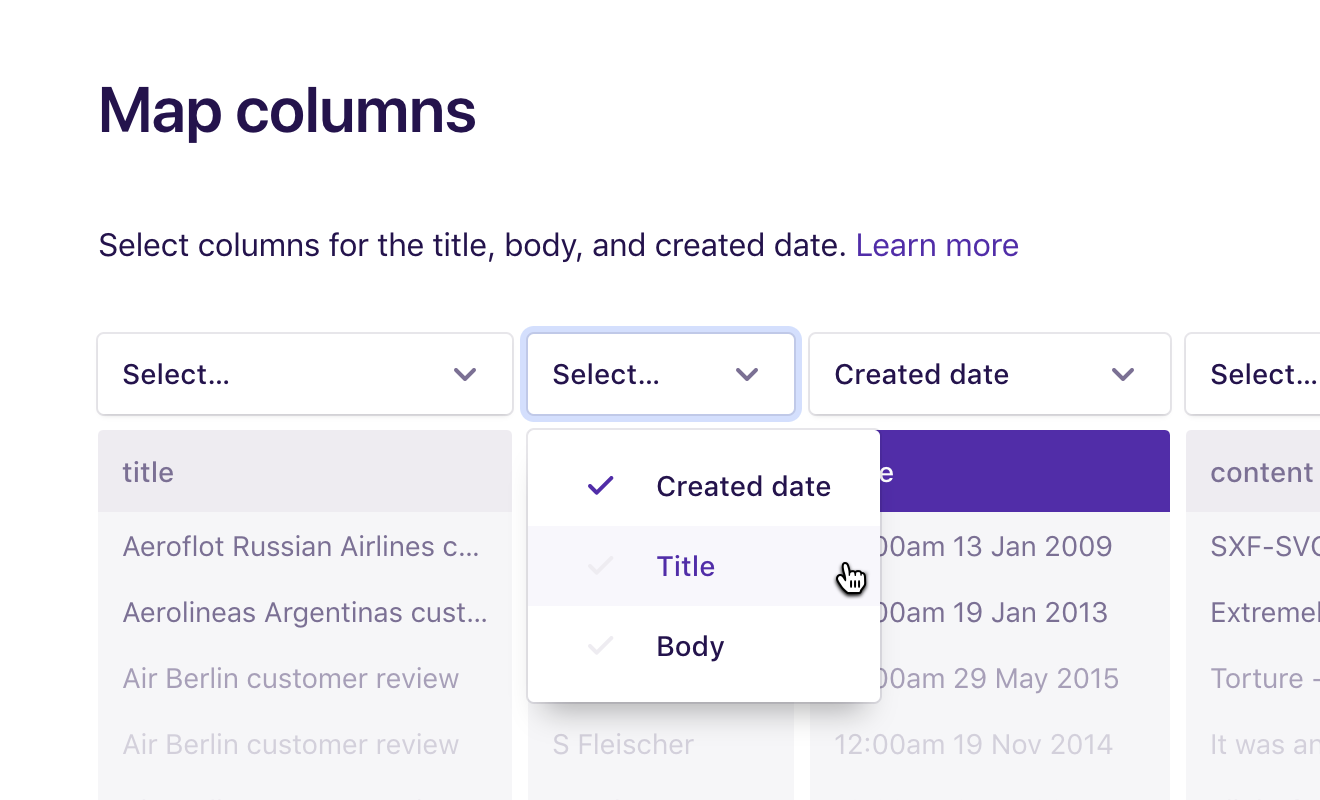
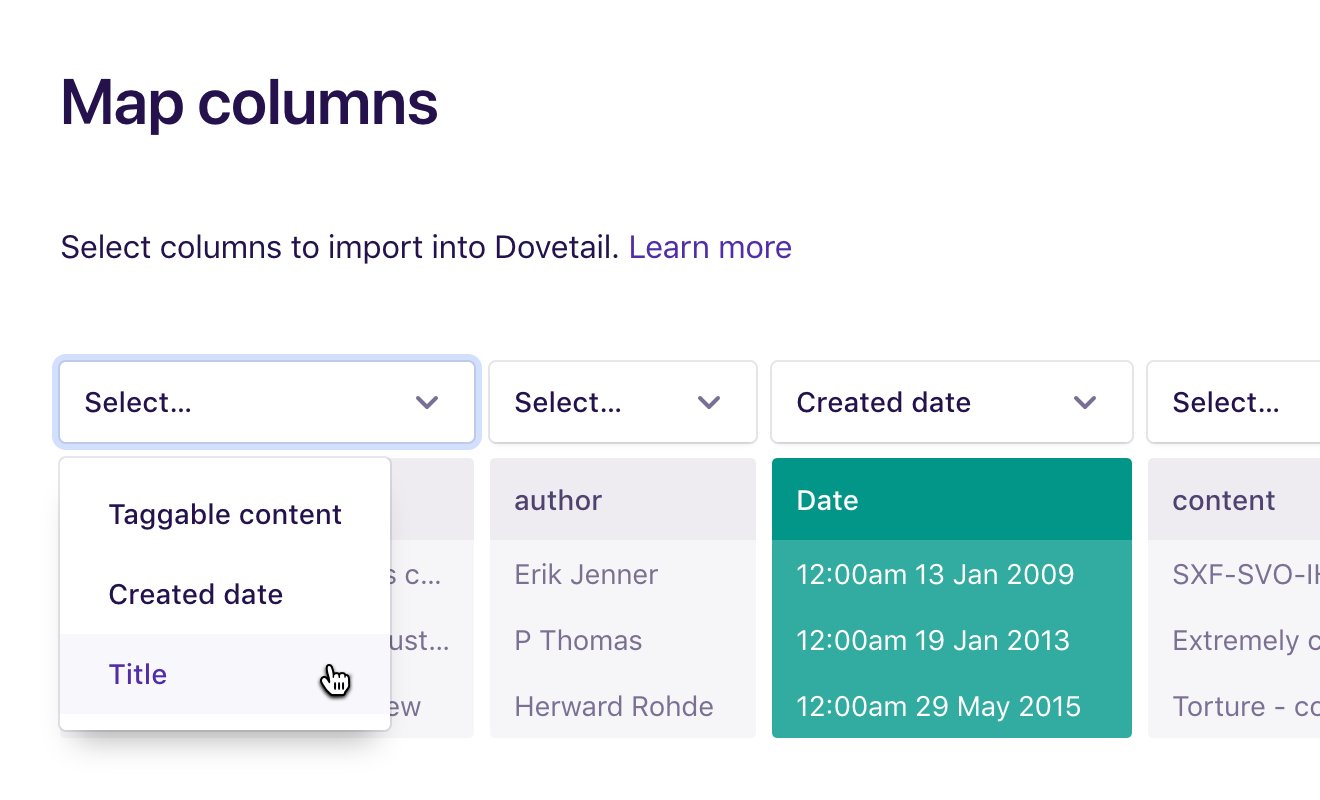
docs: Update CSV import docs

diff --git a/src/pages/help/import-your-data/spreadsheet/index.md b/src/pages/help/import-your-data/spreadsheet/index.md
@@ -1,49 +1,39 @@
 ---
 path: "/help/spreadsheet"
-date: "2018-04-24"
+date: "2018-05-04"
 title: "Upload data via a spreadsheet"
 weight: 1
 ---
 
 Create notes, tags, or insights in bulk from a CSV file. This is handy for importing data like NPS feedback, survey responses, and customer feedback to analyze in Dovetail, or if you have an existing set of tags you’d like to import.
 
-**Note:** CSV import is primarily designed for creating lots of small—to—medium notes. While you can import large content like interview transcripts, you’ll need to take greater care in preparing your CSV file first.
-
-## Before you begin
-
-Please read [our help article](/help/convert-spreadsheet) on the difference between structured data and unstructured data, and what that means when trying to import a spreadsheet into Dovetail.
+**Note:** CSV import is primarily designed for creating lots of small—to—medium notes.
 
 ## Preparing your file for import
 
 You’ll need a sheet from [Microsoft Excel](https://support.office.com/en-us/article/Import-or-export-text-txt-or-csv-files-5250ac4c-663c-47ce-937b-339e391393ba), [Google Sheets](<(https://support.google.com/docs/answer/49114)>), or [Numbers](https://support.apple.com/en-au/HT205391) saved as a UTF-8 encoded Comma Separated Value (CSV) file.
 
-The first row needs to be the title of each column. For example, if you’re importing customer feedback, the first row should contain values like ‘Name’ and ‘Feedback’.
+The first row needs to be the title of each column. For example, if you’re importing survey responses, the first row should contain values like Name and Email, along with your questions like “Why did the chicken cross the Möbius strip?” and so on.
 
-A few things to note:
-
-* Formatting like headings, bold, italics, lists, tables, and images are not supported when importing from a CSV.
-* The maximum length for notes in Dovetail is 100,000 characters. No cell in your CSV file should exceed this limit.
-* Dovetail will interpret two newline characters as separate paragraphs.
-* Your file needs to be encoded as UTF-8 (this is usually the default).
-* Your CSV file should end in a .csv file extension.
+(The answer is “to get to the same side.”)
 
 ## Supported fields
 
-You’ll need to map your CSV columns to Dovetail’s fields. Spreadsheets contain structured data, whereas Dovetail is designed for unstructured data. When creating your CSV file, make sure it has a column for each of these:
+### Taggable content
 
-### Title
-
-This is an optional field. We support all UTF-8 characters, including emoji, and the limit for the title is 200 characters.
-
-### Body
-
-This is a required field for notes and insights, but not tags. We support all UTF-8 characters, including emoji, and the limit for the body is 100,000 characters.
+You can map this field to multiple columns. We support all UTF-8 characters, including emoji, and the limit for content is 100,000 characters. This is a required field for notes and insights, but not tags.
 
 ### Created date
 
-This is an optional field. We recommend the [ISO 8601](https://en.wikipedia.org/wiki/ISO_8601) date format, otherwise YYYY/MM/DD HH:MM.
+You can map this field to one column. We recommend the [ISO 8601](https://en.wikipedia.org/wiki/ISO_8601) date format, otherwise YYYY/MM/DD HH:MM. This is an optional field.
+
+### Title
+
+You can map this field to one column. We support all UTF-8 characters, including emoji, and the limit for the title is 200 characters. This is an optional field.
 
 ## Importing your data
+
+### Choose your file
 
 Once you’ve got your CSV file ready, open the project you’d like to import your data into and click **Import** near the top right:
 
@@ -53,32 +43,56 @@ Click **Upload a CSV file with data** and choose a .csv file from your computer:
 
 ![Screenshot of a cursor over ‘Upload a CSV file with data’](./import-modal.png)
 
-The next step is **mapping columns** in your spreadsheet to Dovetail’s fields. As mentioned above, Dovetail currently supports three fields for notes, tags, and insights: **created date**, **title**, and **body**.
+### Map columns
+
+Select columns to import from your spreadsheet. If your spreadsheet contains a date column, Dovetail might have already detected it, and it’ll be green:
 
 ![Screenshot of the column mapping interface](./map-columns.png)
 
-First, decide which column to map to the title. Open the **select menu** and choose **Title** for that column. In this case, we’ve picked the ‘author’ column:
+Decide which column to set as the title. Open the **select menu** and choose **Title**:
 
 ![Screenshot of the an open select menu for a column](./map-first-column.png)
 
-Next, decide which column to map to the body. This will be the content of the note or insight. If you’re importing tags, you don’t need to select a column for body.
+Next, choose the columns to import as content. These columns will import as the taggable content of the note or insight, or the description for tags.
 
-Open the **select menu** and choose **Body** for that column:
+Open the **select menu** and choose **Taggable content** for one or many columns, and repeat until you’ve mapped as many columns as you need:
 
 ![Screenshot of the an open select menu for a column](./map-second-column.png)
 
-Open the **select menu** after ‘as’ and decide whether you’d like to import your data as notes (default), tags, or insights:
+### Sentiment analysis
+
+If you’d like to analyze the sentiment of your data, keep the **Analyze sentiment** checkbox checked. Dovetail will add ‘Positive’ and ‘Negative’ tags to content that expresses a strong positive or negative sentiment.
+
+[Learn more about automatic sentiment analysis](/help/sentiment)
+
+### Select how to import the data
+
+Open the **select menu** after ‘as’ and decide whether you’d like to import your data as notes (default), tags, or insights. Also open the **select menu** after ‘into’ and choose what group to put the imported data in.
 
 ![Screenshot of a cursor over ‘note’ in the type dropdown](./choose-type.png)
 
-Open the next **select menu** and choose what group to put the imported data in.
+### Start the import
 
-> If you’d like to analyze the sentiment of your data, keep the **Automatically analyze sentiment** checkbox checked. Dovetail will add ‘Positive’ and ‘Negative’ tags to sentences that express a strong positive or negative sentiment. Sentiment analysis is only available on imported notes, not tags or insights. [Learn more](/help/sentiment)
-
-Click **Import rows** to start the import. Your data will start importing. You can see the progress of your import in the bottom right corner:
+Click **Import rows** to start the import. Dovetail will import the green columns for all the rows. You can see the progress of your import in the bottom right corner:
 
 ![Screenshot of the import progress toast notification in the bottom right corner](./importing.png)
 
-Once the import has finished, click **Refresh** to see everything you’ve imported. In this case, the author is the note title, their review is the body, and sentiment analysis has added a few ‘Positive’ and ‘Negative’ tags for us:
+Once the import has finished, click **Refresh** to see everything you’ve imported:
 
 ![Screenshot showing a list of imported notes](./import-complete.png)
+
+Open a note and you’ll see the columns you chose for taggable content are appended to the note with headings, along with sentiment analysis tags, if any:
+
+![Screenshot showing an imported note](./imported-note.png)
+
+That’s it!
+
+## Troubleshooting
+
+Here are a few things to note about CSV import:
+
+* Formatting like headings, bold, italics, lists, tables, and images are not supported when importing from a CSV. They may cause a failure.
+* The maximum length for notes in Dovetail is 100,000 characters. No single cell in your CSV file should exceed this limit. This will cause a failure.
+* Dovetail will interpret two newline characters as separate paragraphs.
+* Your file needs to be encoded as UTF-8 (this is usually the default).
+* Your CSV file should end in a .csv file extension.

diff --git a/src/pages/help/import-your-data/convert-spreadsheet/index.md b/src/pages/help/import-your-data/convert-spreadsheet/index.md
@@ -1,6 +1,6 @@
 ---
 path: "/help/convert-spreadsheet"
-date: "2018-04-24"
+date: "2018-05-03"
 title: "Convert a spreadsheet of data to notes"
 weight: 2
 ---
@@ -9,17 +9,15 @@ When [creating notes from a spreadsheet](/help/spreadsheet), it’s important to
 
 ## Structured and unstructured data
 
-Spreadsheets consist of rows and columns with each cell containing a single entry. The first row is usually a header row which describes the column. Because each entry is in a separate cell in a unique column, this is **structured data**.
+Spreadsheets consist of rows and columns with each cell containing a single entry. The first row is a header row which describes the column. Because each entry is in a separate cell in a unique column, this is structured data.
 
-Dovetail is designed to work with unstructured data, so Dovetail notes are more like a Word document. Notes consist of a title, followed by a single, continuous block of rich text called the ‘Body’. This is **unstructured data**.
+Dovetail is designed to work with unstructured data, so Dovetail notes are more like a Word document. Notes consist of a title, followed by a single, continuous block of rich text called the ‘Content’. This is unstructured data.
 
 ## Converting structured data
 
-When creating notes from a spreadsheet of data, you will need to decide how you will manage the conversion from structured data to unstructured data.
+When you import a spreadsheet into Dovetail, you’re converting structured data in the spreadsheet to unstructured data in notes, tags, or insights.
 
-One way to do this is to combine the columns in your spreadsheet together. This way you can map multiple spreadsheet columns to the body of the note. Another way to think about this is moving from ‘horizontal’ to ‘vertical’.
-
-For example, imagine you have a spreadsheet of responses to survey questions. Each question is a separate column, and the answers are cells in each column:
+Imagine you have a spreadsheet of responses to survey questions. Each question is a separate column, and the answers are cells in each column:
 
 ---
 
@@ -31,36 +29,20 @@ For example, imagine you have a spreadsheet of responses to survey questions. Ea
 
 ---
 
-When you import this spreadsheet into Dovetail, you will not be able to map more than one column to the body of the note.
+When you import this spreadsheet into Dovetail, choose the **Name** column as the **Title** of the note, and map each question column as **Taggable content**.
 
-A workaround is to combine columns together in a single cell, using [newlines](https://en.wikipedia.org/wiki/Newline) to separate your questions and answers. In spreadsheet software, newlines can usually be entered using the keyboard shortcut **Shift + Enter**.
+Dovetail will append each ‘taggable content’ column to the note, from left-to-right, as it appeared in the spreadsheet. Your imported notes will end up looking like this:
 
-Change your spreadsheet to look like this:
-
----
-
-| Name | Body                                                                                                                               |
-| ---- | ---------------------------------------------------------------------------------------------------------------------------------- |
-| Jane | Question 1<br><br>Answer to Question 1<br><br>Question 2<br><br>Answer to Question 2<br><br>Question 3<br><br>Answer to Question 3 |
-| Mary | Question 1<br><br>Answer to Question 1<br><br>Question 2<br><br>Answer to Question 2<br><br>Question 3<br><br>Answer to Question 3 |
-| Zach | Question 1<br><br>Answer to Question 1<br><br>Question 2<br><br>Answer to Question 2<br><br>Question 3<br><br>Answer to Question 3 |
-
----
-
-Now, when you upload this spreadsheet, you can map the ‘Body’ column to the note body and retain your original columns.
-
-Dovetail will interpret newlines as paragraphs, so when you create notes from this spreadsheet, your notes will look like this (assuming you map ‘Name’ to the note title):
-
-> **Jane**
+> ### Jane
 >
-> Question 1
+> **Question 1**
 >
 > Answer to question 1
 >
-> Question 2
+> **Question 2**
 >
 > Anwer to question 2
 >
-> Question 3
+> **Question 3**
 >
 > Answer to question 3
